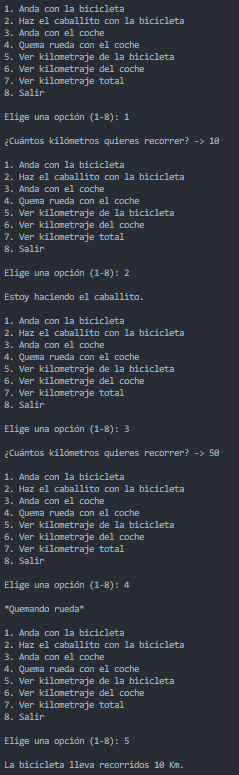
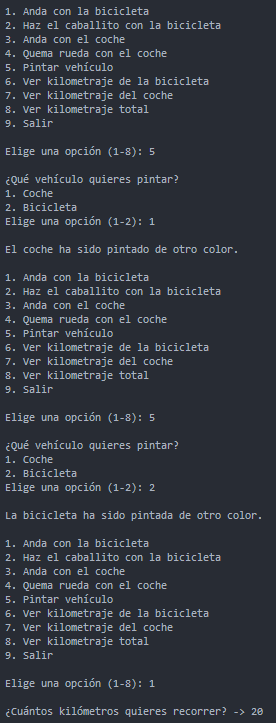
cms

diff --git a/tema9/c91/ej2_poo/TestEj2.java b/tema9/c91/ej2_poo/TestEj2.java
@@ -34,15 +34,16 @@ public class TestEj2{
     /********************************/
 
     // menú de opciones
-      while(opcion!=8){
+      while(opcion!=9){
         System.out.println("\n1. Anda con la bicicleta");
         System.out.println("2. Haz el caballito con la bicicleta");
         System.out.println("3. Anda con el coche");
         System.out.println("4. Quema rueda con el coche");
-        System.out.println("5. Ver kilometraje de la bicicleta");
-        System.out.println("6. Ver kilometraje del coche");
-        System.out.println("7. Ver kilometraje total");
-        System.out.println("8. Salir");
+        System.out.println("5. Pintar vehículo");
+        System.out.println("6. Ver kilometraje de la bicicleta");
+        System.out.println("7. Ver kilometraje del coche");
+        System.out.println("8. Ver kilometraje total");
+        System.out.println("9. Salir");
 
         System.out.print("\nElige una opción (1-8): ");
           opcion=s.nextInt();
@@ -86,6 +87,25 @@ public class TestEj2{
             /***************/
 
             case 5:
+              System.out.println("¿Qué vehículo quieres pintar?");
+                System.out.println("1. Coche");
+                System.out.println("2. Bicicleta");
+
+              System.out.print("Elige una opción (1-2): ");
+                int pintar=s.nextInt();
+
+                if(pintar==1){
+                  coche1.pinta();
+                }else if(pintar==2){
+                  bici1.pinta();
+                }else{
+                  System.out.println("Opción inválida.");
+                }
+            break;
+
+            /***************/
+
+            case 6:
               System.out.print("La bicicleta lleva recorridos ");
 
               System.out.println(bici1.getKmRecorridos()+" Km.");
@@ -93,7 +113,7 @@ public class TestEj2{
 
             /***************/
 
-            case 6:
+            case 7:
               System.out.print("El coche lleva recorridos ");
 
               System.out.println(coche1.getKmRecorridos()+" Km.");
@@ -101,14 +121,10 @@ public class TestEj2{
 
             /***************/
 
-            case 7:
+            case 8:
               System.out.print("Los vehículos llevan recorridos ");
 
               System.out.println(Vehiculo.getKmTotales()+" Km.");
-
-            /***************/
-
-            default:
           }
       }
   }

diff --git a/tema9/c91/ej2_poo/Vehiculo.java b/tema9/c91/ej2_poo/Vehiculo.java
@@ -9,12 +9,12 @@ package tema9.c91.ej2_poo;
 public abstract class Vehiculo{
   // atributos de clase
     private static int kmTotales=0;
-    private static int vehiculosCreados=0;
 
   /***************************************/
 
   // atributos de instancia
     private int kmRecorridos;
+    private static int numVehiculos=0;
 
   /***************************************/
 
@@ -22,6 +22,8 @@ public abstract class Vehiculo{
     public Vehiculo(){
       // inicializa el atributo "kmRecorridos" del objeto actual a 0
         this.kmRecorridos=0;
+
+      numVehiculos++;
     }
 
   /*****************/
@@ -33,6 +35,16 @@ public abstract class Vehiculo{
     */
       public int getKmRecorridos(){
         return this.kmRecorridos;
+      }
+
+    /*****************/
+
+    /**
+      @info: obtiene el número total de vehículos
+      @return this.numVehiculos: número de vehículos
+    */
+      public int getNumVehiculos(){
+        return this.numVehiculos;
       }
 
     /*****************/
@@ -56,4 +68,9 @@ public abstract class Vehiculo{
 
         Vehiculo.kmTotales+=k;
       }
+
+    /*****************/
+
+    // método "pinta"
+      public abstract void pinta();
 }

diff --git a/tema9/c91/ej2_poo/Coche.java b/tema9/c91/ej2_poo/Coche.java
@@ -29,7 +29,14 @@ public class Coche extends Vehiculo{
   // métodos
     // hace que el coche queme rueda
       public void quemaRueda(){
-        System.out.print("*Quemando rueda*");
-        System.out.println();
+        System.out.println("*Quemando rueda*");
       }
+
+    /*********************/
+
+    // método "pinta"
+      @Override
+        public void pinta(){
+          System.out.println("\nEl coche ha sido pintado de otro color.");
+        }
 }

diff --git a/tema9/c91/ej2_poo/Bicicleta.java b/tema9/c91/ej2_poo/Bicicleta.java
@@ -32,4 +32,12 @@ public class Bicicleta extends Vehiculo{
         System.out.print("Estoy haciendo el caballito.");
         System.out.println();
       }
+
+    /*********************/
+
+    // método "pinta"
+      @Override
+        public void pinta(){
+          System.out.println("\nLa bicicleta ha sido pintada de otro color.");
+        }
 }
